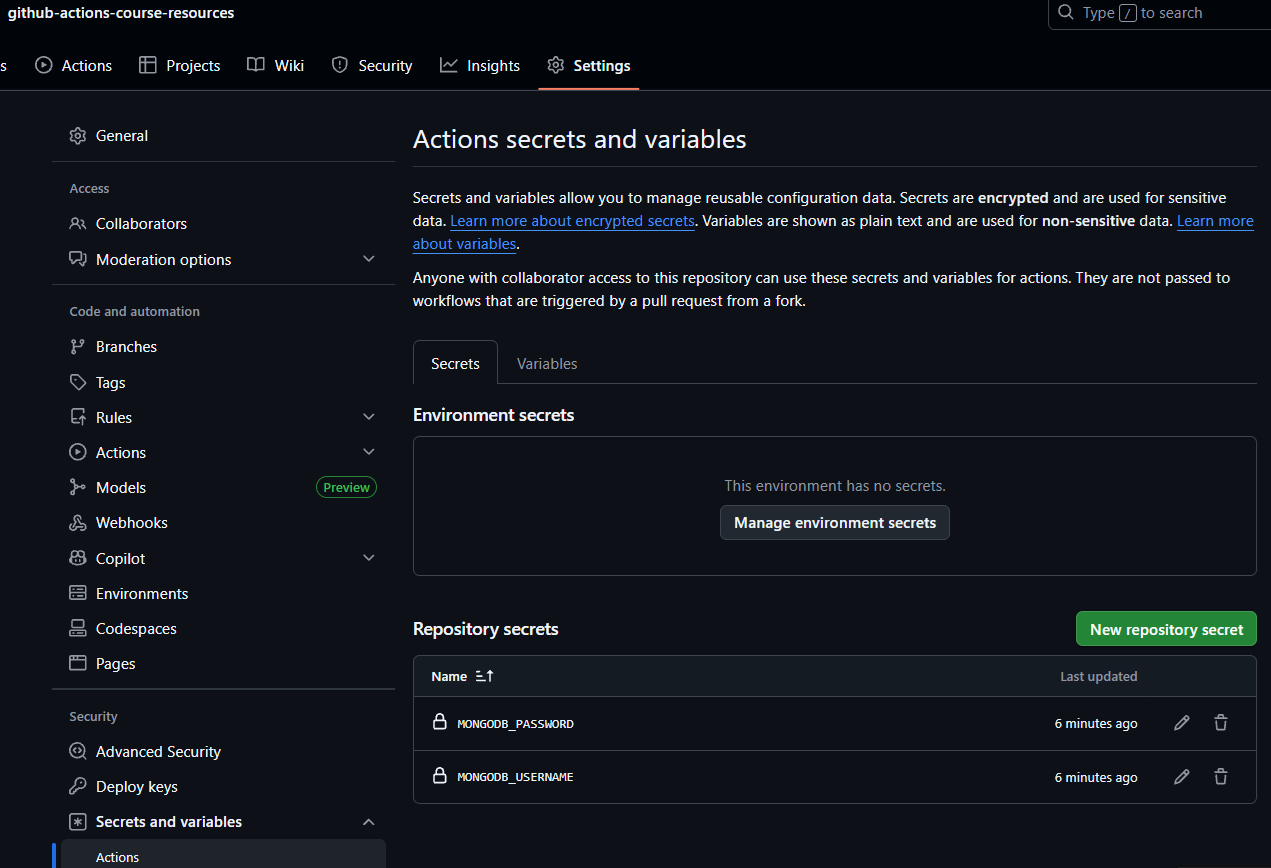
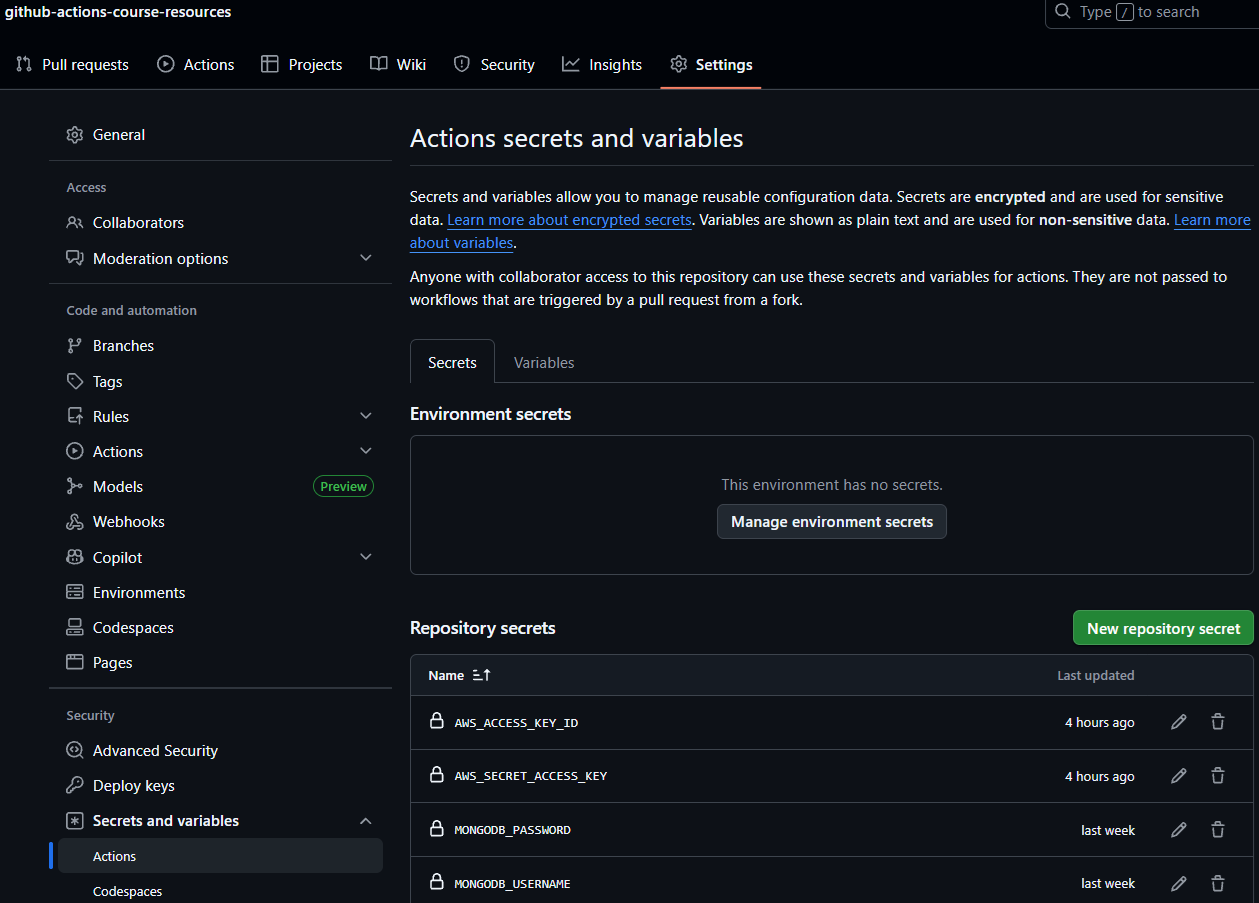
docs: [skip ci]

diff --git a/README.md b/README.md
@@ -1,4 +1,4 @@
-> This material is from `https://www.udemy.com/course/github-actions-the-complete-guide/` created by Maximilian Schwarzmüller
+> This material is from [Maximilian Schwarzmüller's udemy course](https://www.udemy.com/course/github-actions-the-complete-guide)
 
 # GitHub Actions Course — Workflows & Documentation Overview
 
@@ -6,6 +6,21 @@ This repository is a complete **GitHub Actions learning project**, containing pr
 It is designed for developers who want to understand GitHub Actions from basics to advanced concepts.
 
 ---
+
+# 🔐 Add Secrets to the github 
+
+we need four secrets to run pipeline correctly, add them into your github action secrets
+
+[how to add secrets to github action](./docs/Secrets.md#-2-如何建立-repository-secrets)
+
+- MONGODB_USERNAME
+- MONGODB_PASSWORD
+- AWS_ACCESS_KEY_ID
+- AWS_SECRET_ACCESS_KEY
+
+![Secrets](./img/secret.png)
+
+
 
 # 🚀 Available Workflows
 
